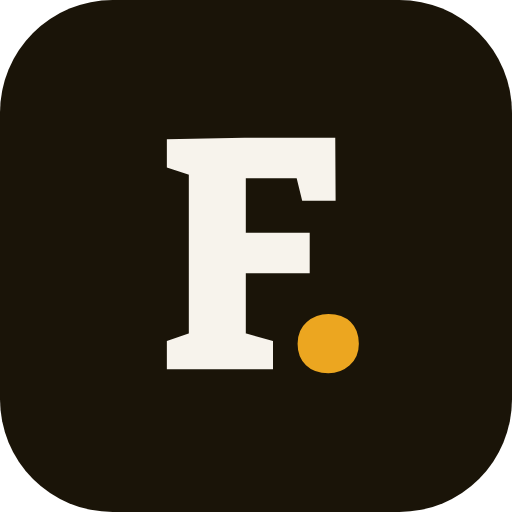
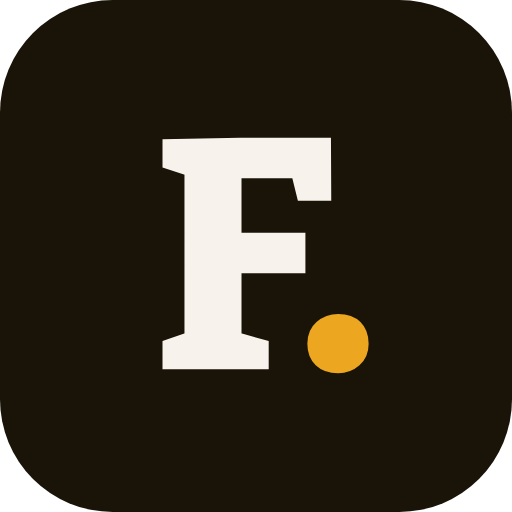
F. mark: the full stop at gap G3, Bitter's own F-to-period kern
Owner, 11 Nov 2026: back to G3. The icons and the share image are regenerated from the
same outlines and C3 centring with the stop 0.117 em left of the F's advance instead of
0.16. favicon.svg and favicon-16.png are unchanged: their 16px grid fit already put the
stop on the pixel edge G3 lands on.

diff --git a/DESIGN.md b/DESIGN.md
@@ -361,7 +361,7 @@ Fork is one click, decided 29 October 2026: the pill submits, the server makes t
 
 ### Logo
 
-The F. mark (Spencer, 11 November 2026: "ship the new logo"): "F." in Bitter ExtraBold (800) outlines, the F cream (or ink on paper) and the full stop marigold. The stop sits at gap G4, 0.16 em left of the F's advance, past Bitter's own F-to-period kern, so it tucks under the middle arm; the pair is centred C3, by eye: across, halfway between the ink box's centre and the ink's centroid; down, the cap height centred and lifted 0.5 of 100. Every mark is paths only, no `<text>` and no font loaded, so it renders the same everywhere. It is Fork's icon: the browser tab, the home screen and the share image. The "Fork." wordmark (Bitter 600, cream, with a marigold full stop) stays in the top bar and on `src/error.html`.
+The F. mark (Spencer, 11 November 2026: "ship the new logo"): "F." in Bitter ExtraBold (800) outlines, the F cream (or ink on paper) and the full stop marigold. The stop sits at gap G3, 0.117 em left of the F's advance: Bitter's own F-to-period kern, so the pair is spaced as the typeface sets "F."; the pair is centred C3, by eye: across, halfway between the ink box's centre and the ink's centroid; down, the cap height centred and lifted 0.5 of 100. Every mark is paths only, no `<text>` and no font loaded, so it renders the same everywhere. It is Fork's icon: the browser tab, the home screen and the share image. The "Fork." wordmark (Bitter 600, cream, with a marigold full stop) stays in the top bar and on `src/error.html`.
 
 - **Favicon**: `favicon.svg` is the 16px-tuned drawing (the stop enlarged and the pair grid-fitted so the F's stem, the baseline and the stop fall on pixel edges), with 32 and 16 PNG fallbacks.
 - **App icon**: L8, the dark tile (espresso, corners 22 of 100), in the manifest at 192 and 512. The touch icon (180) and the manifest's maskable icon (512) are the same drawing on a full square: iOS and Android cut their own corners, and the ink sits well inside the maskable 80% circle. The manifest's `display` is `browser`: Fork does not install as a standalone app.
